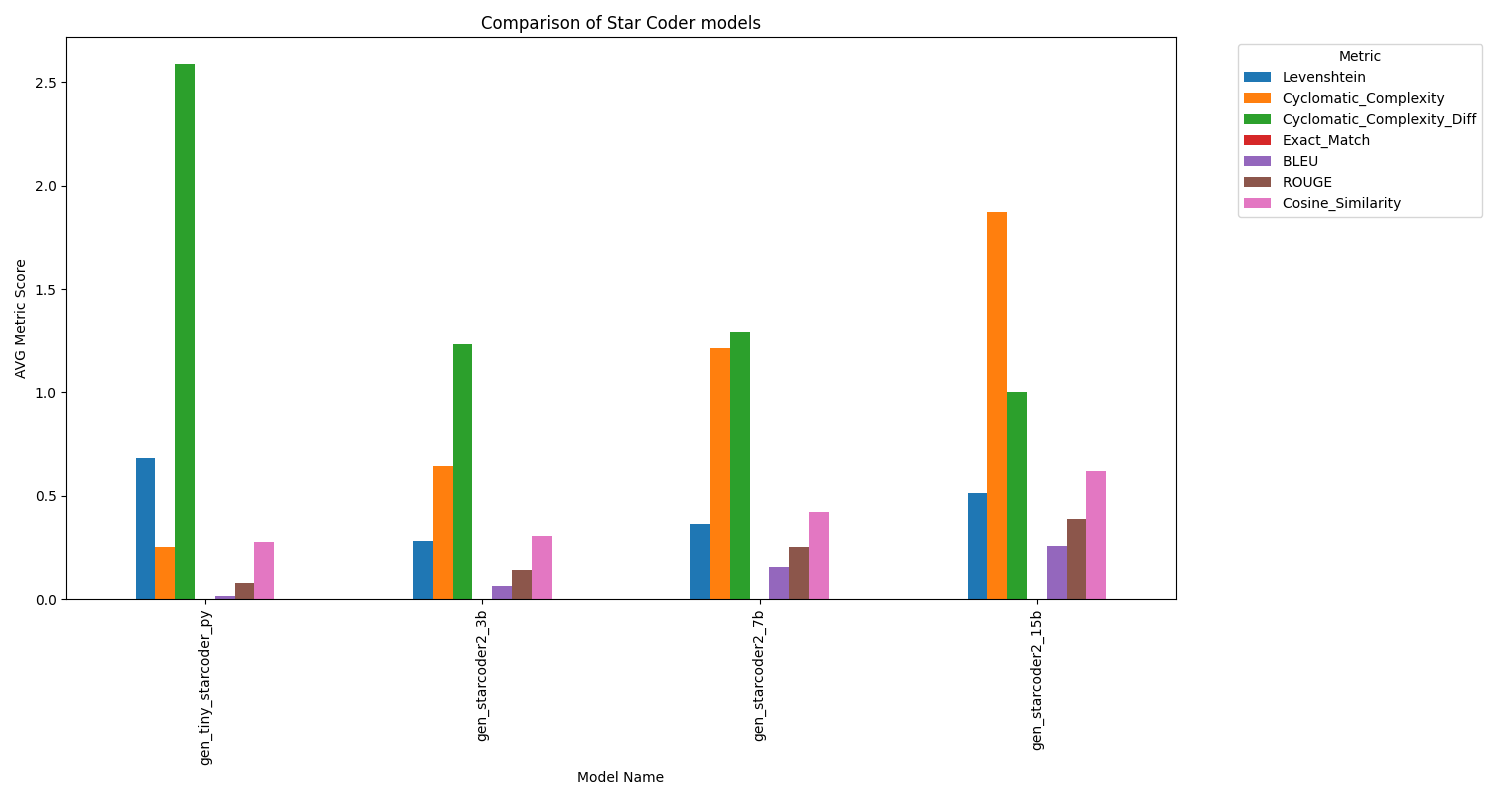
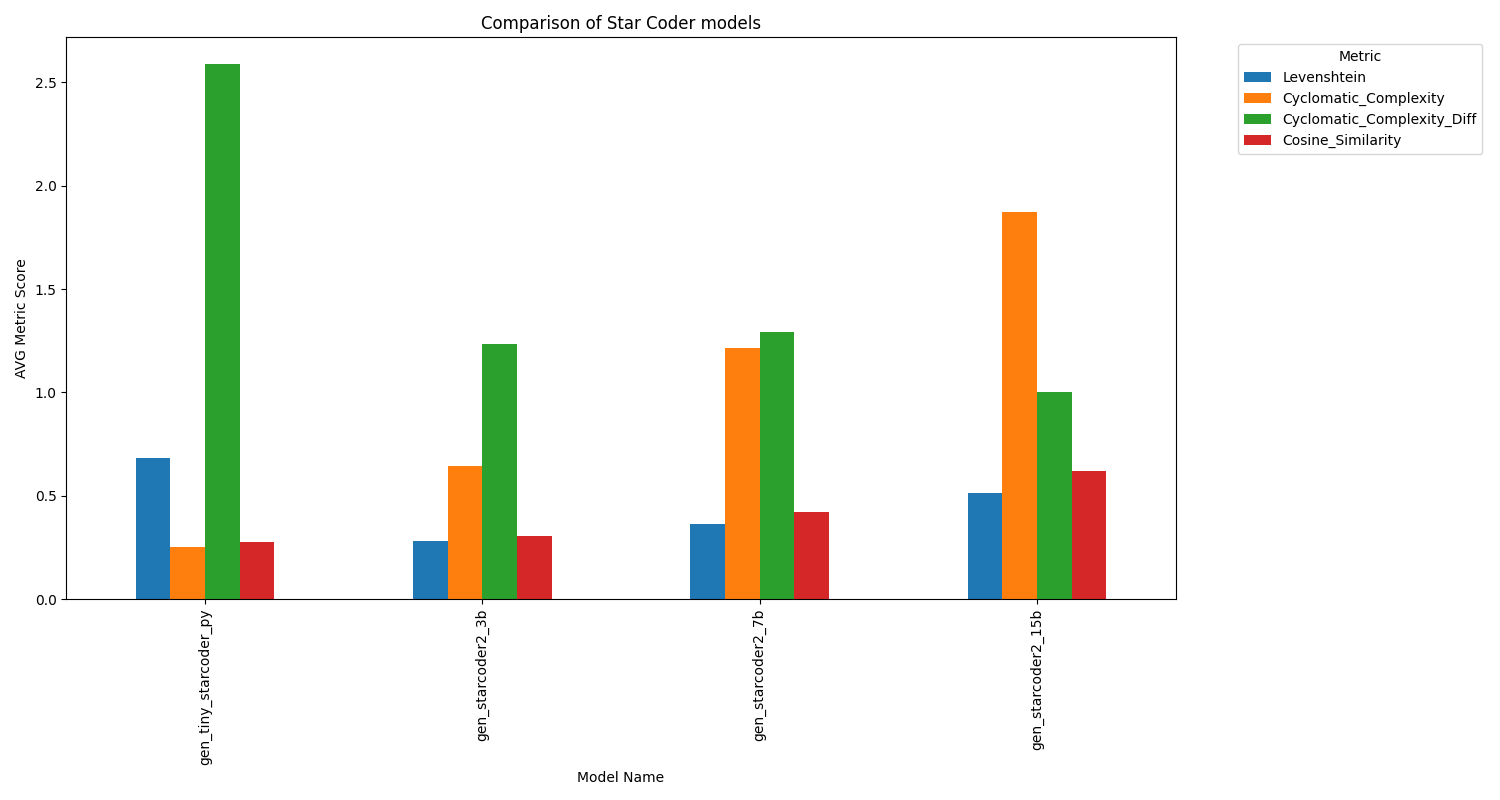
updated readme

diff --git a/7 Evaluation Results/Results.py b/7 Evaluation Results/Results.py
@@ -25,21 +25,15 @@ metrics = [
     'Levenshtein',
     'Cyclomatic_Complexity',
     'Cyclomatic_Complexity_Diff',
-    'Exact_Match',
-    'BLEU',
-    'ROUGE',
     'Cosine_Similarity'
 ]
 
 # weights for each metric
 weights = {
-    'Levenshtein': 0.15,
-    'Cyclomatic_Complexity': 0.10,
-    'Cyclomatic_Complexity_Diff': 0.10,
-    'Exact_Match': 0.20,
-    'BLEU': 0.15,
-    'ROUGE': 0.15,
-    'Cosine_Similarity': 0.15
+    'Levenshtein': 0.30,
+    'Cyclomatic_Complexity': 0.15,
+    'Cyclomatic_Complexity_Diff': 0.15,
+    'Cosine_Similarity': 0.40
 }
 
 results = {}

diff --git a/README.md b/README.md
@@ -27,21 +27,22 @@ This step was pivotal in establishing a reliable benchmark for other metrics (ev
 To quantify the model's performance, I proposed and implemented several automatic metrics:
 
 - **Exact Match**: Just simply checks if the generated code exactly matches the expected code.
-- **BLEU Score**: Measures the n-gram overlap between the generated and reference code.
-- **ROUGE Score**: Assesses the overlap of n-grams, focusing on recall (nice correlation).
+- **BLEU and ROUGE Score**: Might give us surface-level insights about generated and reference code.
 - **Levenshtein Distance**: Calculates the minimum number of single-character edits required to change one word into the other (length alone was not a consistent predictor of quality).
 - **Cyclomatic Complexity**: Analyzes the complexity of the generated code.
 - **Cosine Similarity**: Evaluates the semantic similarity between the original and generated code embeddings (I noticed high correlation with manual evaluations).
 
+P.S. BLEU and ROUGE are not applicable to code directly, however they might provide surface-level insights, but lacking depth in syntax and functionality.
+
 ![Similarity Scores](./Media/CosineSimilarity.png)
 
-To sum up, metrics like Cosine Similarity, Error Count and ROUGE/BLEU showed better alignment with human judgments, I suppose that might indicate their effectiveness in code evaluation tasks.
+To sum up, metrics like Cosine Similarity, Error Count and Similarity Length Ratio showed better alignment with human judgments, I suppose that might indicate their effectiveness in code evaluation tasks.
 
 ## A few notes about findings
 
 - **Model Performance**:
   - **Exact Match Limitation**: Exact Match is a very strange metric, it often penalizes minor yet widely acceptable variations in code structure or variable naming.
-  - **BLEU and ROUGE Correlation**: These metrics demonstrated a pretty positive correlation with my manual evaluations.
+  - **BLEU and ROUGE Correlation**: These metrics demonstrated not very positive correlation with my manual evaluations, probably due to the lacking depth in syntax related to code.
   - **Cyclomatic Complexity Insights**: Generated code occasionally exhibited higher complexity, it might open potential areas for optimization.
   - **Similarity Score and Error Count** were rather a reliable automatic metrics, exhibiting strong correlations with manual evaluations.
 - **Dataset Quality**:
@@ -64,7 +65,7 @@ To sum up, metrics like Cosine Similarity, Error Count and ROUGE/BLEU showed bet
 
 ## Conclusion
 
-Overall, based on a comprehensive evaluation, the `starcoder2-15b` model, with a composite score of 0.4162, outperformed its counterparts across most metrics. It achieved the highest BLEU score (0.2559), ROUGE score (0.3881), and Cosine Similarity (0.6217), while maintaining a relatively low Levenshtein Distance (0.5113) and Cyclomatic Complexity (1.0). **We can say that these results indicate that the larger `starcoder2-15b` model is more adept at generating coherent, semantically accurate, and maintainable code completions.**
+Overall, based on a comprehensive evaluation, the `starcoder2-15b` model, with a composite score of 0.4162, outperformed its counterparts across most metrics. It achieved the highest Similarity Length (0.73), Readability (3.5/5) and Cosine Similarity (0.6217), while maintaining a relatively low Levenshtein Distance (0.5113) and Cyclomatic Complexity (1.0). **We can say that these results indicate that the larger `starcoder2-15b` model is more adept at generating coherent, semantically accurate, and maintainable code completions.**
 
 _P.S. While we are mostly talking about results from function completion as they intend to be more robust for overall scoring, same reasoning and same results might be deduced from multiline completions as well._
 
@@ -83,12 +84,12 @@ However, the computational demands of `starcoder2-15b` may be a consideration fo
 
 ### Comparison with Other Models:
 
-| Model               | Composite Score | BLEU    | ROUGE   | Cosine Similarity | Eval Score | Error Count | Notes                                                                                                                                   |
-|---------------------|-----------------|---------|---------|-------------------|------------|-------------|-----------------------------------------------------------------------------------------------------------------------------------------|
-| `starcoder2-15b`    | **0.4162**      | **0.2559** | **0.3881** | **0.6217**         | **0.85**       | **1.0**         | Highest performance across metrics; ideal for high-accuracy applications.                                                               |
-| `starcoder2-7b`     | 0.37            | 0.1563  | 0.2514  | 0.4214            | 0.75       | 3.0         | Strong performance, slightly lower than `starcoder2-15b`, with really lower computational cost.                                         |
-| `starcoder2-3b`     | 0.3473          | 0.0621  | 0.1388  | 0.3031            | 0.5        | 3.0         | Moderate capabilities; suitable for less demanding applications.                                                                        |
-| `tiny_starcoder_py` | 0.2583          | 0.0134  | 0.0765  | 0.2781            | 0.1        | 5.0         | Limited effectiveness; best suited for some kind of lightweight tasks where minimal resource usage is prioritized over qualited output. |
+| Model               | Composite Score | Similarity Length | Readability | Cosine Similarity | Eval Score | Error Count | Notes                                                                                                                                   |
+|---------------------|-----------------|-------------------|-------------|-------------------|------------|-------------|-----------------------------------------------------------------------------------------------------------------------------------------|
+| `starcoder2-15b`    | **0.4162**      | **0.73**          | **3.5/5**   | **0.6217**         | **0.85**       | **1.0**         | Highest performance across metrics; ideal for high-accuracy applications.                                                               |
+| `starcoder2-7b`     | 0.37            | 0.625             | 3/5         | 0.4214            | 0.75       | 3.0         | Strong performance, slightly lower than `starcoder2-15b`, with really lower computational cost.                                         |
+| `starcoder2-3b`     | 0.3473          | 0.61              | 3.4/5       | 0.3031            | 0.5        | 3.0         | Moderate capabilities; suitable for less demanding applications.                                                                        |
+| `tiny_starcoder_py` | 0.2583          | 0.17            | 2.4/5       | 0.2781            | 0.1        | 5.0         | Limited effectiveness; best suited for some kind of lightweight tasks where minimal resource usage is prioritized over qualited output. |
 
 
 While `starcoder2-15b` seems to excel across almost all metrics, `starcoder2-7b` presents a nice alternative where it balances performance with computational resources. However `starcoder2-3b` and `tiny_starcoder_py` offer progressively lighter solutions, that might be suitable for much more simpler tasks or constrained environments.
